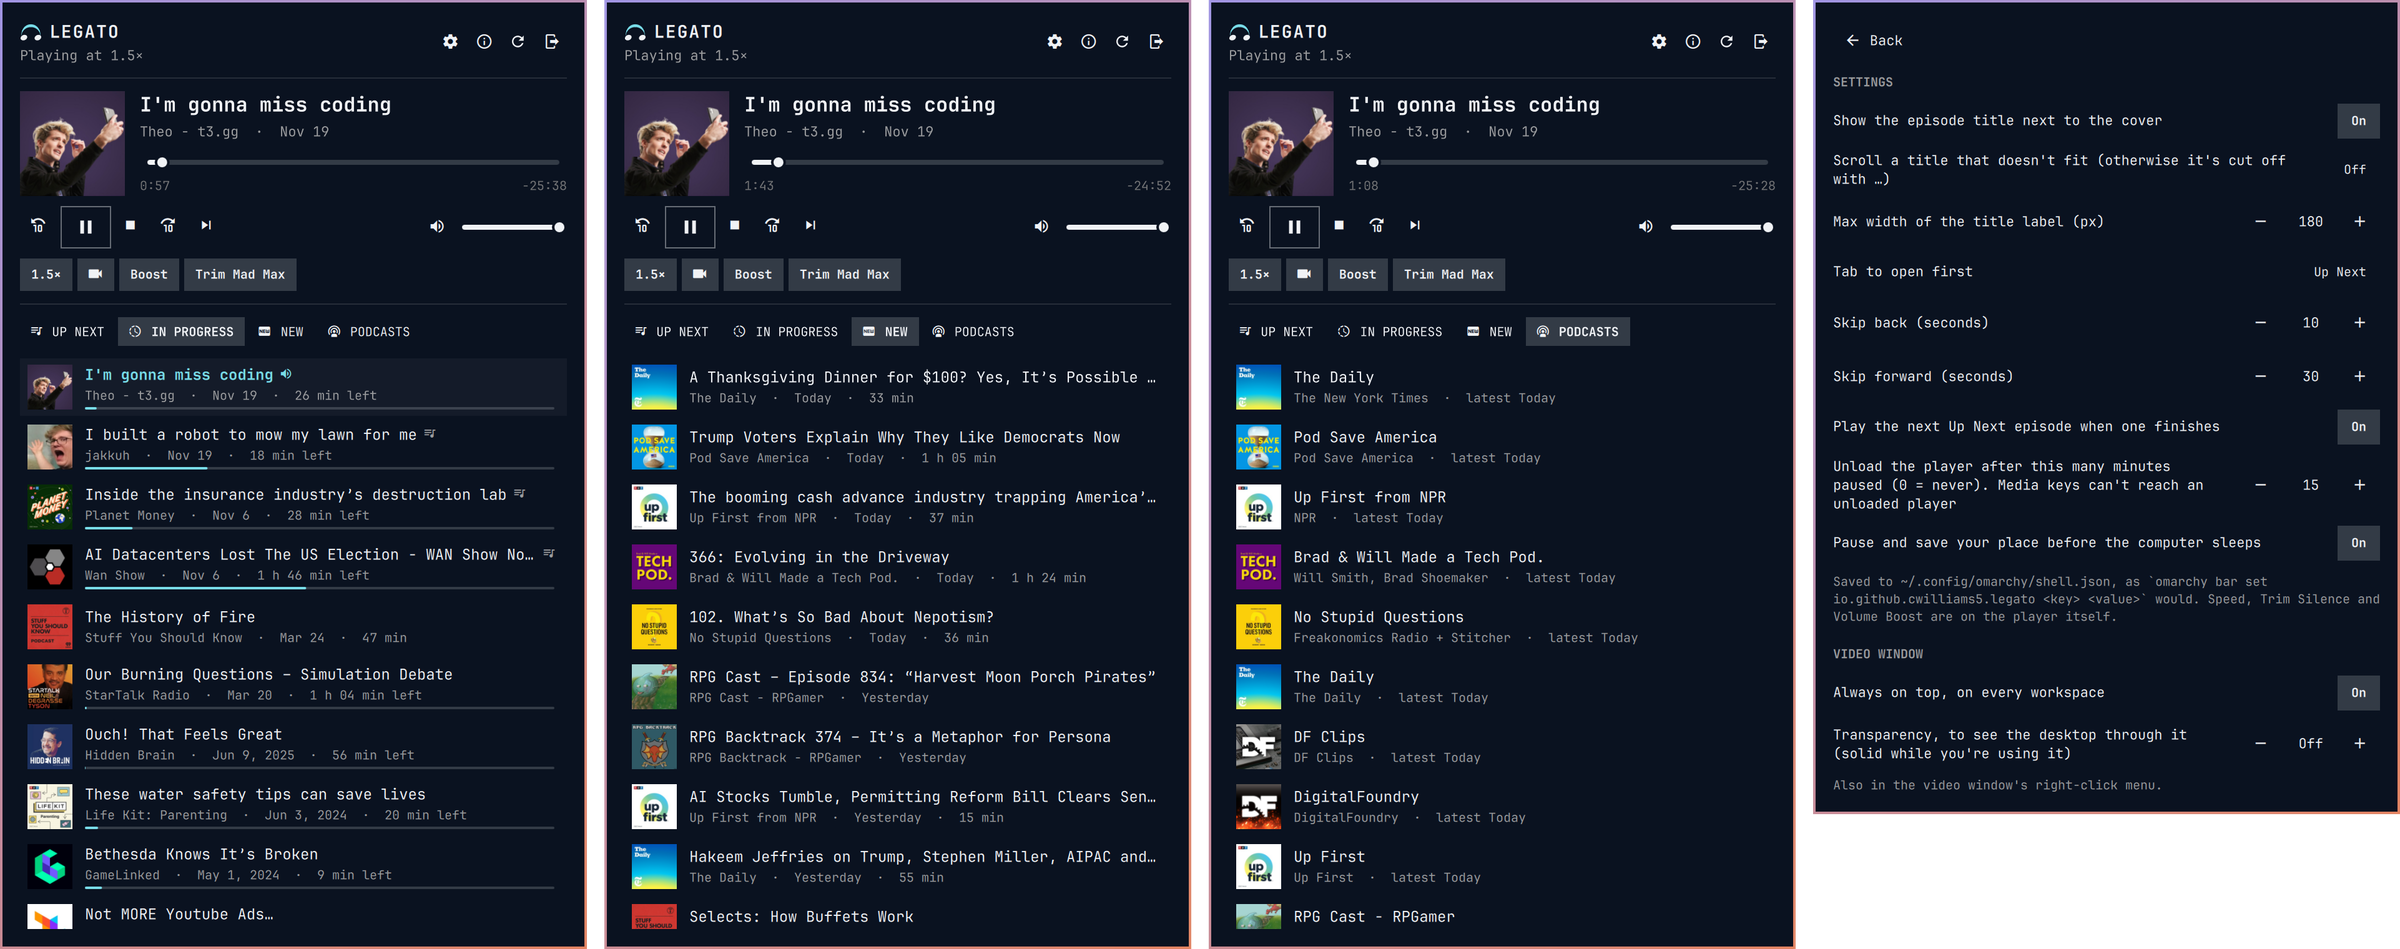
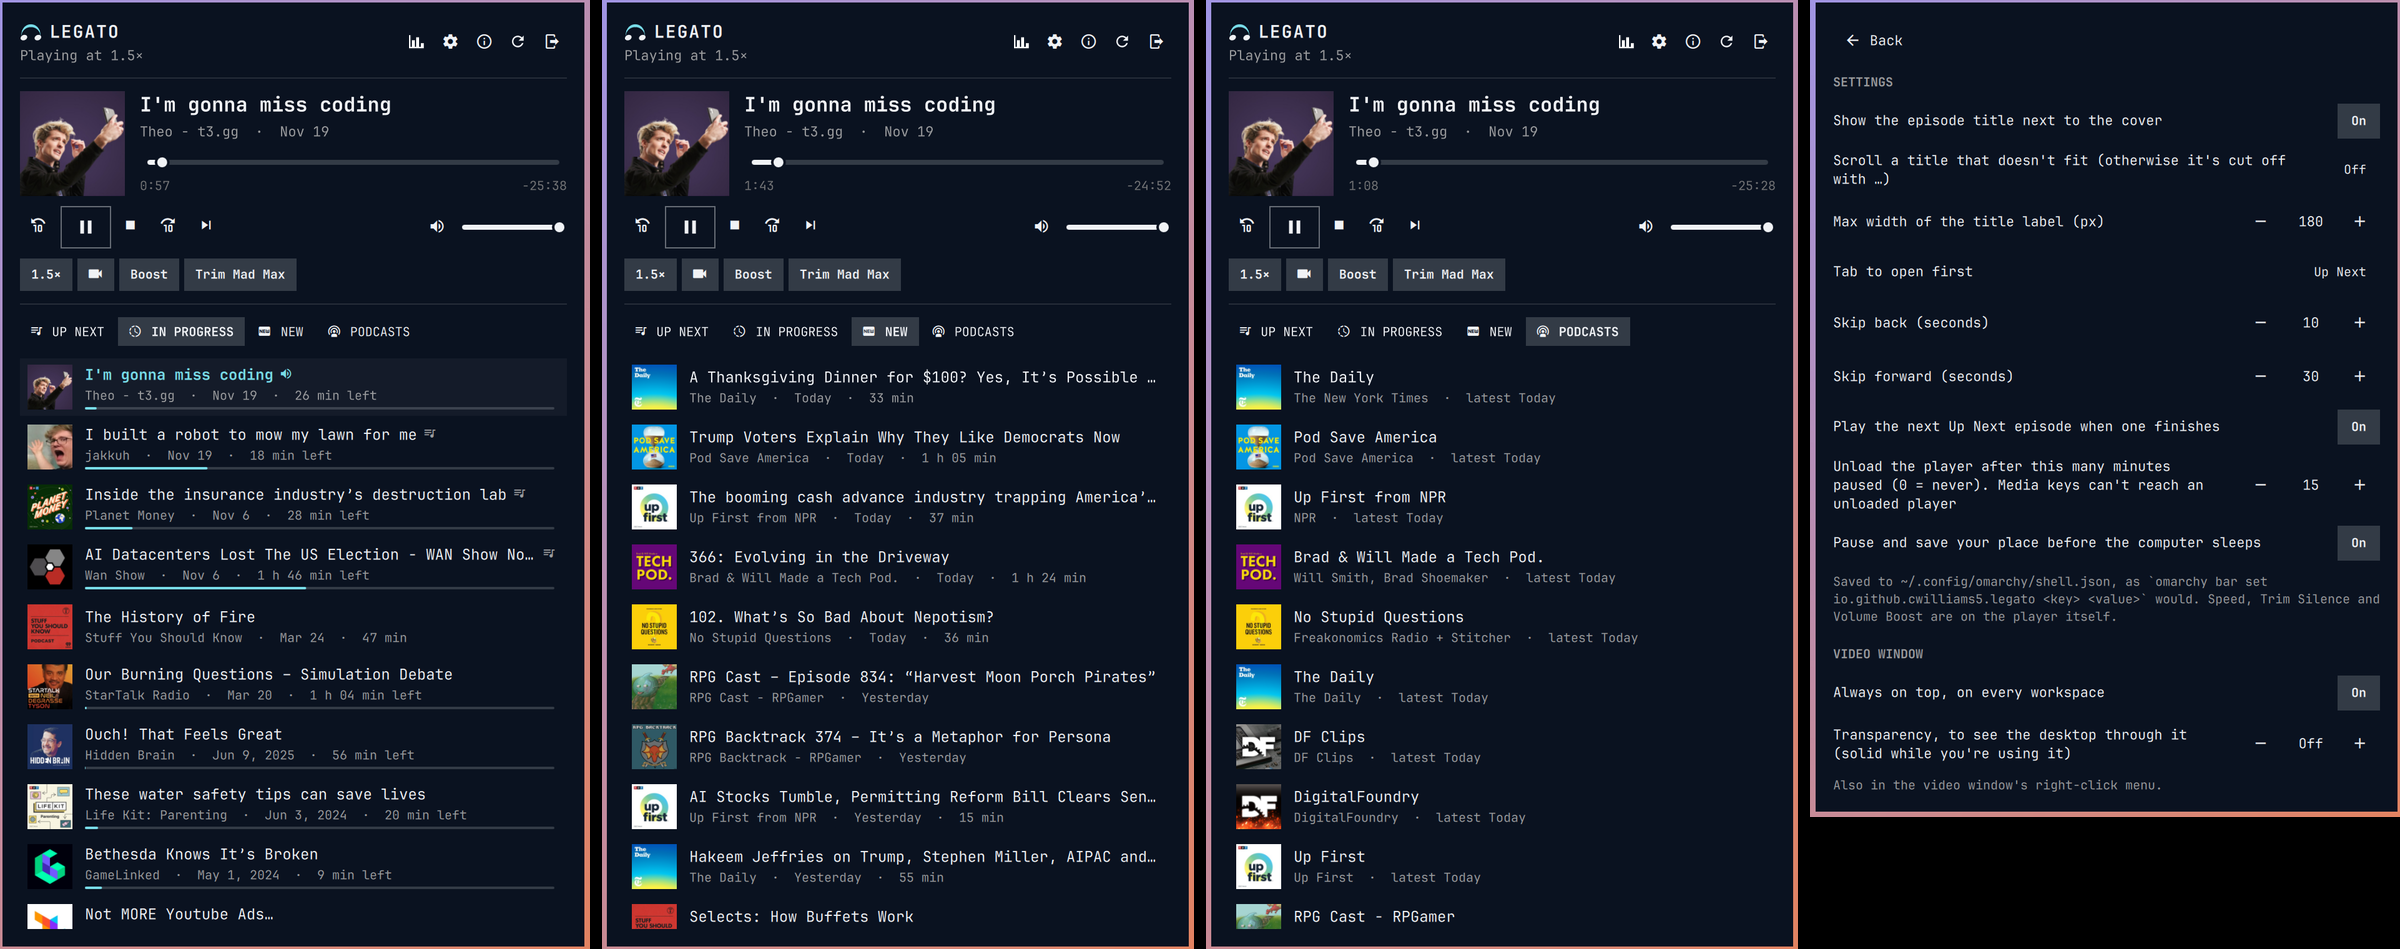
Media for 1.1.0: the Stats button in the screenshots, and the Stats page
The panel's header gained a Stats button. Rather than re-shoot, the button
is drawn into the existing images (hero, pages, the theme GIF, the social
card and the marketplace card) from the panel's own font, sized and placed
against each image's gear, in each theme's own colours; nothing else in
them changes. media/stats.png shows the new page, with illustrative numbers.

Changed region(s): [[0.75, 0.0, 1.0, 1.0], [0.4688, 0.0, 0.5312, 1.0], [0.2188, 0.0, 0.25, 1.0]]

diff --git a/docs/PLAN.md b/docs/PLAN.md
@@ -372,6 +372,20 @@ history on other submissions). Fixed, each with a failing-first test:
   Cody's home server sends Content-Range with the full size and serves MP4,
   so his episodes' ends are judged by the file. The prediction's Low on
   G14 (UUIDs in argv) is left as decided.
+- [x] H8 Media for 1.1.0 (Cody: no re-shoot, edit the button in). The
+  header's Stats button was composited into media/hero.png, pages.png
+  (three headers), themes.gif (six themes), social-preview.png and
+  preview.png (the hero at 1400 px): the chart glyph rendered from the
+  panel's own font (JetBrainsMono Nerd Font), sized so the rendered gear
+  matches each image's gear (best at no offset), one button pitch to its
+  left, in each theme's own ink. The GIF was rebuilt on its own palette
+  (`+dither -remap`, `-layers OptimizeFrame`; `-layers Optimize` re-quantizes),
+  so every pixel outside the icon is unchanged. media/stats.png was shot
+  live with illustrative numbers (stats.json swapped in for the shot and
+  removed after: 1 d 14 h listened, 1 d 3 h saved, 63 finished), on an
+  empty workspace: a window with no_screen_share (Bitwarden) blacks out
+  screenshots of its whole workspace, panels on top included. GitHub's
+  social card is uploaded by hand from media/social-preview.png.
 - [ ] H6 Ship 1.1.0 (a minor version: the stats are a feature) with the `ship-update` skill (marketplace verification
   request, Cody approves the filing).
 

diff --git a/README.md b/README.md
@@ -85,6 +85,9 @@ by Nine Point Labs (MIT). What's new compared to the original:
   and how much time speed, Trim Silence, skipping forward and the shows'
   intro and outro skips saved you (the chart button in the panel's header,
   or `a`). Counted on this computer only and never sent anywhere.
+
+  <img src="media/stats.png" width="470" alt="The Listening stats page: 1 d 14 h listened on this computer, 1 d 3 h saved, split into playback speed, Trim Silence, skipping forward and skipped intros and outros, and 63 episodes finished">
+
 - **Keyboard-friendly,** in the panel and in the video window (see
   [Keys](#keys)), and scriptable through `omarchy-shell` for your own
   keybindings.
